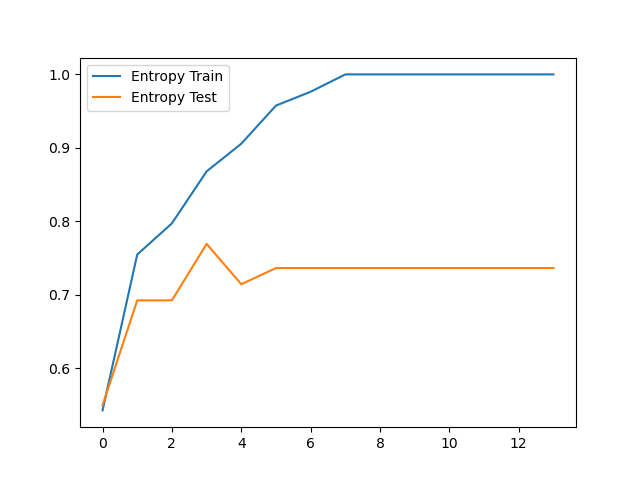
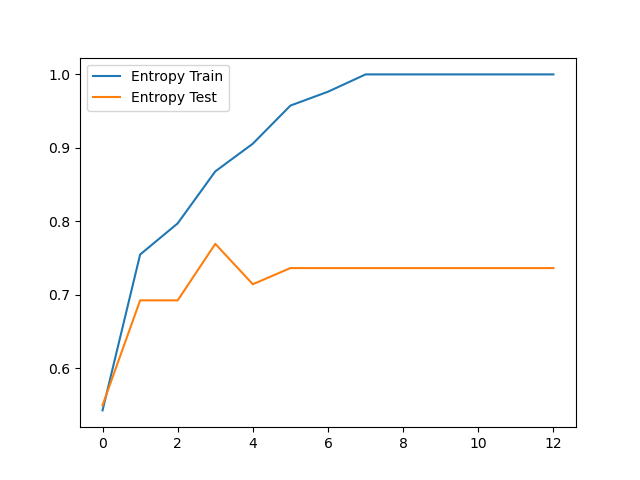
ex1 loops modified

diff --git a/a3/ex1.py b/a3/ex1.py
@@ -37,19 +37,22 @@ class Node:
         for feature in rootd:
             # best split val for the feature
             best_feat_split_val = self.X[0][feature]
-            best_feat_split_loss = float("inf")
+            split_vals = set()
             for input in range(num_inputs):
-                split_val = self.X[input][feature]
+                split_vals.add(self.X[input][feature])
+
+            best_feat_split_loss = float("inf")
+            for split in split_vals:
                 yl = np.array([])
                 yr = np.array([])
                 for i in range(num_inputs):
-                    if (self.X[i][feature] <= split_val):
+                    if (self.X[i][feature] <= split):
                         yl = np.append(yl, self.y[i])
                     else:
                         yr = np.append(yr, self.y[i])
                 split_loss = len(yl)/num_inputs * self.f(yl) + len(yr)/num_inputs * self.f(yr)
                 if (split_loss < best_feat_split_loss):
-                    best_feat_split_val = split_val
+                    best_feat_split_val = split
                     best_feat_split_loss = split_loss
             splits = np.append(splits, best_feat_split_val)
             losses = np.append(losses, best_feat_split_loss)
@@ -183,9 +186,9 @@ gini_train = np.array([])
 gini_test = np.array([])
 entropy_train = np.array([])
 entropy_test = np.array([])
-x_axis = range(14)
+x_axis = range(13)
 
-for i in range(14):
+for i in range(13):
     dtMissclassification = DecisionTree(missclassification, i)
     dtMissclassification.build(X_train, y_train)
     missclassification_y_train = dtMissclassification.predict(X_train)
@@ -226,8 +229,9 @@ plt.savefig("Entropy.png")
 plt.clf()
 '''
 # Part B
+w_accuracies = []
+wo_accuracies = []
 for j in range(11):
-    print("Run:", j)
     datasets_X = np.empty_like([X_train])
     datasets_y = np.empty_like([y_train])
 
@@ -247,26 +251,44 @@ for j in range(11):
     datasets_X = datasets_X[1:]
     datasets_y = datasets_y[1:]
     test_accuracies_without = np.array([])
-    test_accuracies_with = np.array([]) 
+    test_accuracies_with = np.array([])
+    pred_y_without = np.empty_like([y_test])
+    pred_y_with = np.empty_like([y_test])
     for b in range(101):
         dtEntropyWithout = DecisionTree(entropy, 3)
         dtEntropyWithout.build(datasets_X[b], datasets_y[b])
-        entropy_y_test = dtEntropyWithout.predict(X_test)
-        test_accuracies_without = np.append(test_accuracies_without, accuracy(entropy_y_test, y_test))
+        entropy_y_test_without = dtEntropyWithout.predict(X_test)
+        pred_y_without = np.append(pred_y_without, np.array([entropy_y_test_without]), axis=0)
 
         dtEntropyWith = DecisionTree(entropy, 3, True)
         dtEntropyWith.build(datasets_X[b], datasets_y[b])
-        entropy_y_test = dtEntropyWith.predict(X_test)
-        test_accuracies_with = np.append(test_accuracies_with, accuracy(entropy_y_test, y_test))
-    
-    test_median_without = np.median(test_accuracies_without)
-    test_minimum_without = np.amin(test_accuracies_without)
-    test_maximum_without = np.amax(test_accuracies_without)
-    print("Without Random Forests")
-    print("Test Median: {}, Test Minimum: {}, Test Maximum: {}".format(test_median_without, test_minimum_without, test_maximum_without))
+        entropy_y_test_with = dtEntropyWith.predict(X_test)
+        pred_y_with = np.append(pred_y_with, np.array([entropy_y_test_with]), axis=0)
 
-    test_median_with = np.median(test_accuracies_with)
-    test_minimum_with = np.amin(test_accuracies_with)
-    test_maximum_with = np.amax(test_accuracies_with)
-    print("With Random Forests")
-    print("Test Median: {}, Test Minimum: {}, Test Maximum: {}".format(test_median_with, test_minimum_with, test_maximum_with))
+    pred_y_without = pred_y_without[1:]
+    pred_y_with = pred_y_with[1:]
+
+    without_acc = 0
+    with_acc = 0
+    test_n = len(y_test)
+    for i in range(test_n):
+        pred_without = pred_y_without[:,i]
+        y_without = round(np.average(pred_without))
+        if (y_without == y_test[i]):
+            without_acc += 1
+
+        pred_with = pred_y_with[:,i]
+        y_with = round(np.average(pred_with))
+        if (y_with == y_test[i]):
+            with_acc += 1
+
+    without_acc /= test_n
+    with_acc /= test_n
+
+    wo_accuracies.append(without_acc)
+    w_accuracies.append(with_acc)
+
+print("Without Random Forests")
+print("Median: {}, Minimum: {}, Maximum: {}".format(np.median(wo_accuracies), np.amin(wo_accuracies), np.amax(wo_accuracies)))
+print("With Random Forests")
+print("Median: {}, Minimum: {}, Maximum: {}".format(np.median(w_accuracies), np.amin(w_accuracies), np.amax(w_accuracies)))
